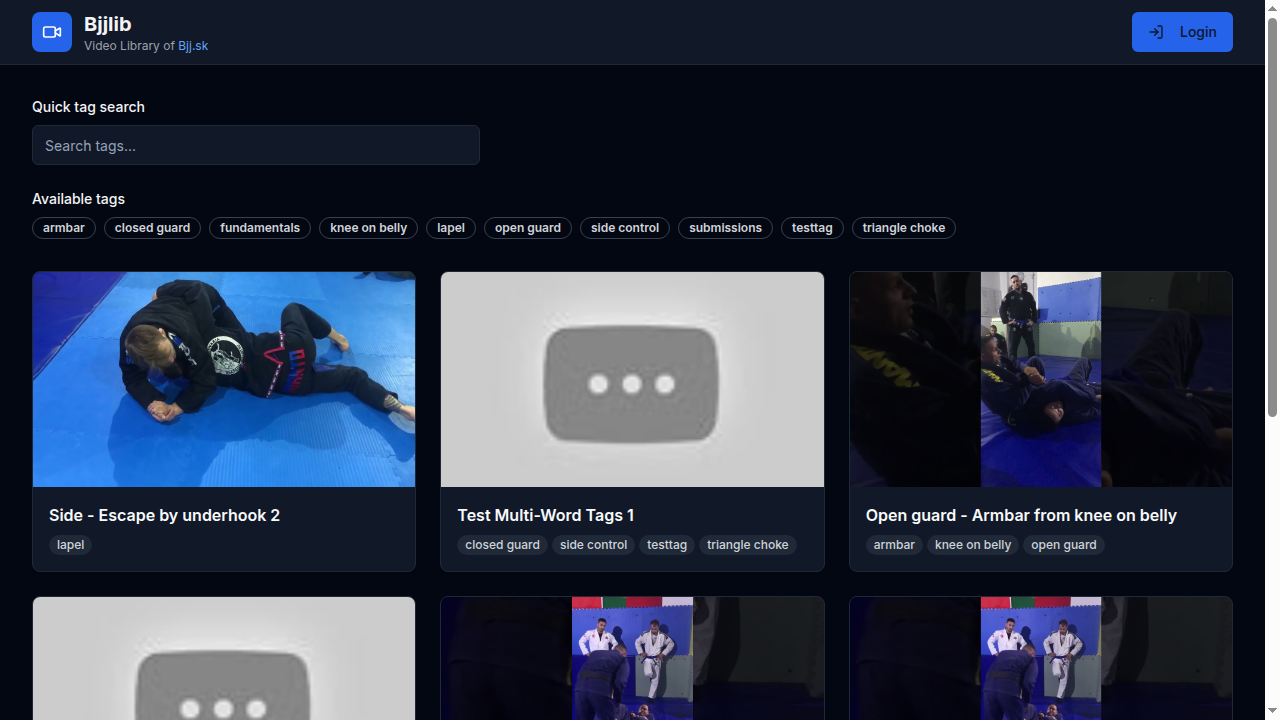
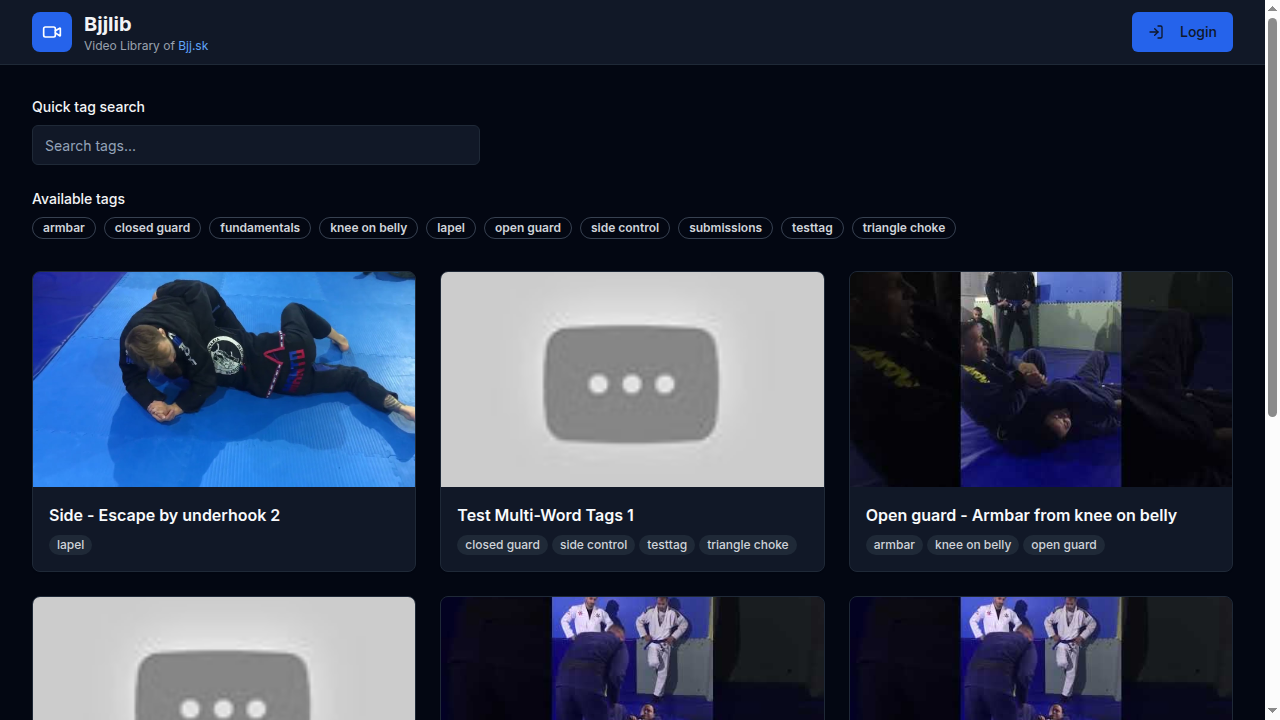
Dynamically crop black bars from video thumbnails for better display
Implement black bar detection and cropping logic for thumbnails using a canvas to dynamically calculate bar widths and adjust display.

Replit-Commit-Author: Agent
Replit-Commit-Session-Id: b15de78b-2851-47ec-8734-944ed5bb9730
Replit-Commit-Checkpoint-Type: intermediate_checkpoint
Replit-Commit-Screenshot-Url: https://storage.googleapis.com/screenshot-production-us-central1/c1ace56a-ac62-48d6-88f3-3192e981bba3/b15de78b-2851-47ec-8734-944ed5bb9730/tOaILwE

Changed region(s): [[0.75, 0.3667, 0.875, 0.7028], [0.4062, 0.825, 0.5625, 1.0], [0.75, 0.825, 0.875, 1.0]]

diff --git a/client/src/pages/home.tsx b/client/src/pages/home.tsx
@@ -64,6 +64,28 @@ function isICloudUrl(url: string): boolean {
   return url.includes('icloud.com');
 }
 
+function detectAndCropBlackBars(img: HTMLImageElement): void {
+  try {
+    if (!img.naturalWidth || !img.naturalHeight) return;
+    
+    const aspectRatio = img.naturalWidth / img.naturalHeight;
+    const targetAspectRatio = 16 / 9;
+    
+    if (aspectRatio < targetAspectRatio * 0.95) {
+      const barPercent = ((1 - aspectRatio / targetAspectRatio) / 2) * 100;
+      
+      if (barPercent > 5) {
+        const scale = targetAspectRatio / aspectRatio;
+        img.style.clipPath = `inset(0 ${barPercent}% 0 ${barPercent}%)`;
+        img.style.transform = `scale(${scale})`;
+        img.style.objectPosition = 'center';
+      }
+    }
+  } catch (error) {
+    console.error('Error detecting black bars:', error);
+  }
+}
+
 export default function Home() {
   const searchParams = new URLSearchParams(useSearch());
   const [, setLocation] = useLocation();
@@ -435,6 +457,7 @@ export default function Home() {
                                     alt={video.title}
                                     className="block absolute top-0 left-0 w-full h-full object-cover object-center"
                                     onError={handleThumbnailError}
+                                    onLoad={(e) => detectAndCropBlackBars(e.currentTarget)}
                                     data-testid={`video-thumbnail-${video.id}`}
                                   />
                                   <button
